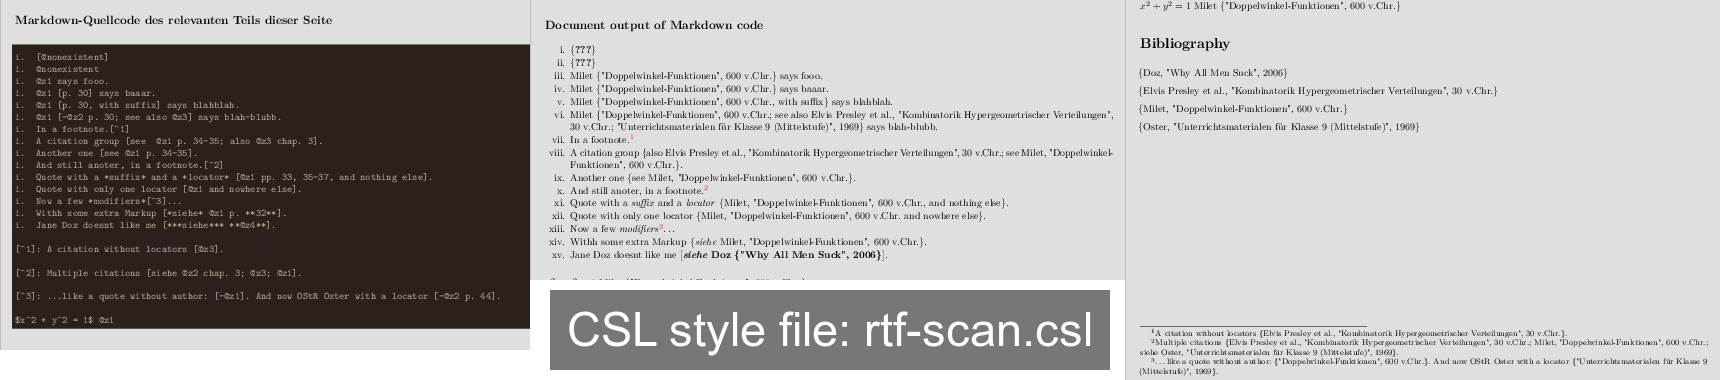
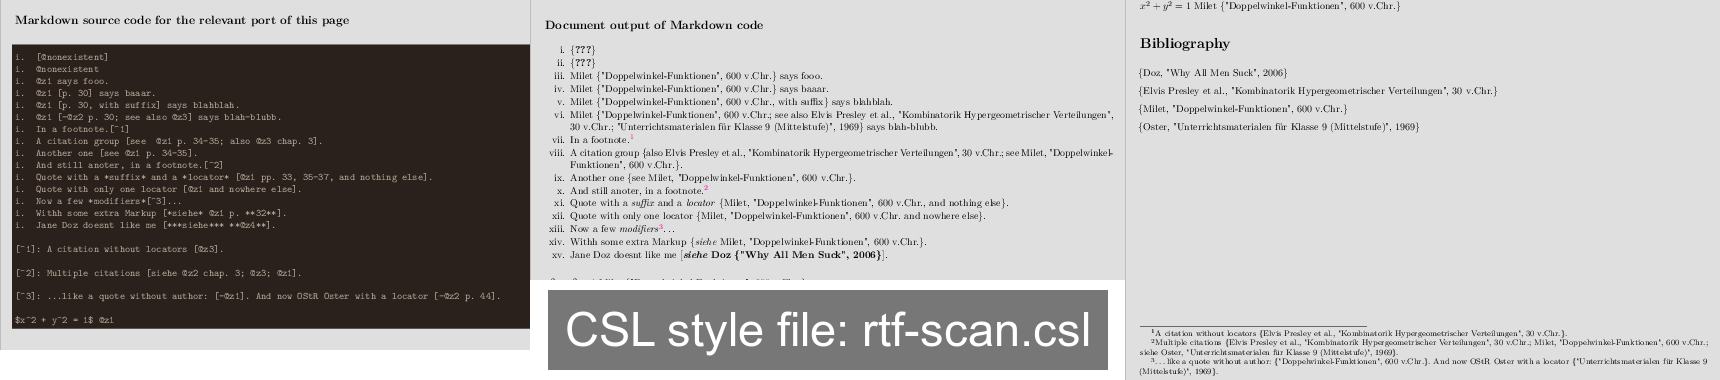
Translate one more string in sample Markdown document; update images to reflect that.

Changed region(s): [[0.3081, 0.8105, 0.6471, 0.9263], [0.0308, 0.0289, 0.2157, 0.0868]]

diff --git a/example-gallery.md b/example-gallery.md
@@ -18,37 +18,39 @@ These pictures clearly show what you can expect.
 
 So if you see something un-expected in your document when using CSL-formatted bibliographies with it, chances are: *"It's not a bug, it's a feature."*
 
-----
 
-![**multiple-sclerosis-journal.csl**](./images/pdflatex---pandoc-csl-testing---multiple-sclerosis-journal.png "multiple-sclerosis-journal.csl")
 
 ----
 
-![**rapid-communications-in-mass-spectrometry.csl**](./images/pdflatex---pandoc-csl-testing---rapid-communications-in-mass-spectrometry.png "rapid-communications-in-mass-spectrometry.csl")
+![**multiple-sclerosis-journal.csl**](./images/pdflatex---pandoc-csl-testing---multiple-sclerosis-journal.png "multiple-sclerosis-journal.CSL")
 
 ----
 
-![**rtf-scan.csl**](./images/pdflatex---pandoc-csl-testing---rtf-scan.png "rtf-scan.csl")
+![**rapid-communications-in-mass-spectrometry.csl**](./images/pdflatex---pandoc-csl-testing---rapid-communications-in-mass-spectrometry.png "rapid-communications-in-mass-spectrometry.CSL")
 
 ----
 
-![**small.csl**](./images/pdflatex---pandoc-csl-testing---small.png "small.csl")
+![**rtf-scan.csl**](./images/pdflatex---pandoc-csl-testing---rtf-scan.png "rtf-scan.CSL")
 
 ----
 
-![**stuttgart-media-university.csl**](./images/pdflatex---pandoc-csl-testing---stuttgart-media-university.png "stuttgart-media-university.csl")
+![**small.csl**](./images/pdflatex---pandoc-csl-testing---small.png "small.CSL")
 
 ----
 
-![**thomson-reuters-legal-tax-and-accounting-australia.csl**](./images/pdflatex---pandoc-csl-testing---thomson-reuters-legal-tax-and-accounting-australia.png "thomson-reuters-legal-tax-and-accounting-australia.csl")
+![**stuttgart-media-university.csl**](./images/pdflatex---pandoc-csl-testing---stuttgart-media-university.png "stuttgart-media-university.CSL")
 
 ----
 
-![**universidade-de-sao-paulo-instituto-de-matematica-e-estatistica.csl**](./images/pdflatex---pandoc-csl-testing---universidade-de-sao-paulo-instituto-de-matematica-e-estatistica.png "universidade-de-sao-paulo-instituto-de-matematica-e-estatistica.csl")
+![**thomson-reuters-legal-tax-and-accounting-australia.csl**](./images/pdflatex---pandoc-csl-testing---thomson-reuters-legal-tax-and-accounting-australia.png "thomson-reuters-legal-tax-and-accounting-australia.CSL")
 
 ----
 
-![**wissenschaftlicher-industrielogistik-dialog.csl**](./images/pdflatex---pandoc-csl-testing---wissenschaftlicher-industrielogistik-dialog.png "wissenschaftlicher-industrielogistik-dialog.csl")
+![**universidade-de-sao-paulo-instituto-de-matematica-e-estatistica.csl**](./images/pdflatex---pandoc-csl-testing---universidade-de-sao-paulo-instituto-de-matematica-e-estatistica.png "universidade-de-sao-paulo-instituto-de-matematica-e-estatistica.CSL")
+
+----
+
+![**wissenschaftlicher-industrielogistik-dialog.csl**](./images/pdflatex---pandoc-csl-testing---wissenschaftlicher-industrielogistik-dialog.png "wissenschaftlicher-industrielogistik-dialog.CSL")
 
 ----
 

diff --git a/markdown/en---citations.md b/markdown/en---citations.md
@@ -1,7 +1,7 @@
 # `pandoc`: Test Series for automatically generated bibliographies using different CSL files from [citationstyles.org](http://citationstyles.org/styles/)
 # &nbsp; &nbsp; &nbsp; &nbsp; &nbsp; &nbsp; &nbsp; &nbsp; &nbsp; &nbsp; &nbsp; &nbsp; *here using:* `___csl_style___`
 
-## Markdown-Quellcode des relevanten Teils dieser Seite
+## Markdown source code for the relevant port of this page
 
 ``` {.markdown}
 i.  [@nonexistent]
